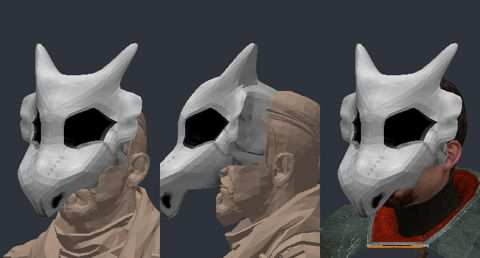
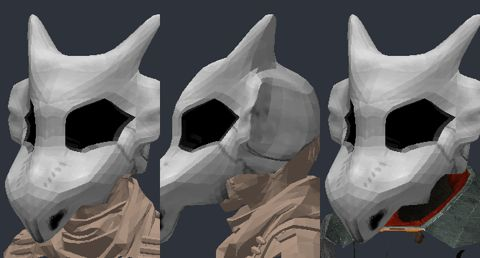
[create] hats: billyhatcherhat back 1, cuboneskull scaled 150 %

diff --git a/create/hats/HATS.md b/create/hats/HATS.md
@@ -189,9 +189,9 @@ moves with it through its `fit` choice).
 | `rubikscube` | autofit mask (scale 0.50) | kind mask | 4 |
 | `teamrockethat` | autofit hat (scale 1.36) |  | 4 |
 | `turkey` | autofit hat (scale 1.07) | offset [2.0, 0, 4.0] | 4 |
-| `billyhatcherhat` | autofit hat (scale 0.85) | offset [-7.0, 0, -4.0], scale 1.1 | 5 |
+| `billyhatcherhat` | autofit hat (scale 0.85) | offset [-8.0, 0, -4.0], scale 1.1 | 6 |
 | `blackmage_hat` | autofit hat (scale 0.40) |  | 4 |
-| `cuboneskull` | autofit mask (scale 0.84) | offset [5.0, 0, 1.0], rotate [30, 0, 0], scale 1.1 | 4 |
+| `cuboneskull` | autofit mask (scale 0.84) | offset [5.0, 0, 1.0], rotate [30, 0, 0], scale 1.65 | 5 |
 | `generalpepperhat` | autofit hat (scale 0.83) | offset [3.0, 0, 0.0] | 4 |
 | `keatonmask` | autofit mask (scale 0.60) | offset [2.0, 0, 2.0], scale 1.2 | 4 |
 | `klonoahat` | autofit hat (scale 0.89) | offset [2.0, 0, 0.0] | 4 |
